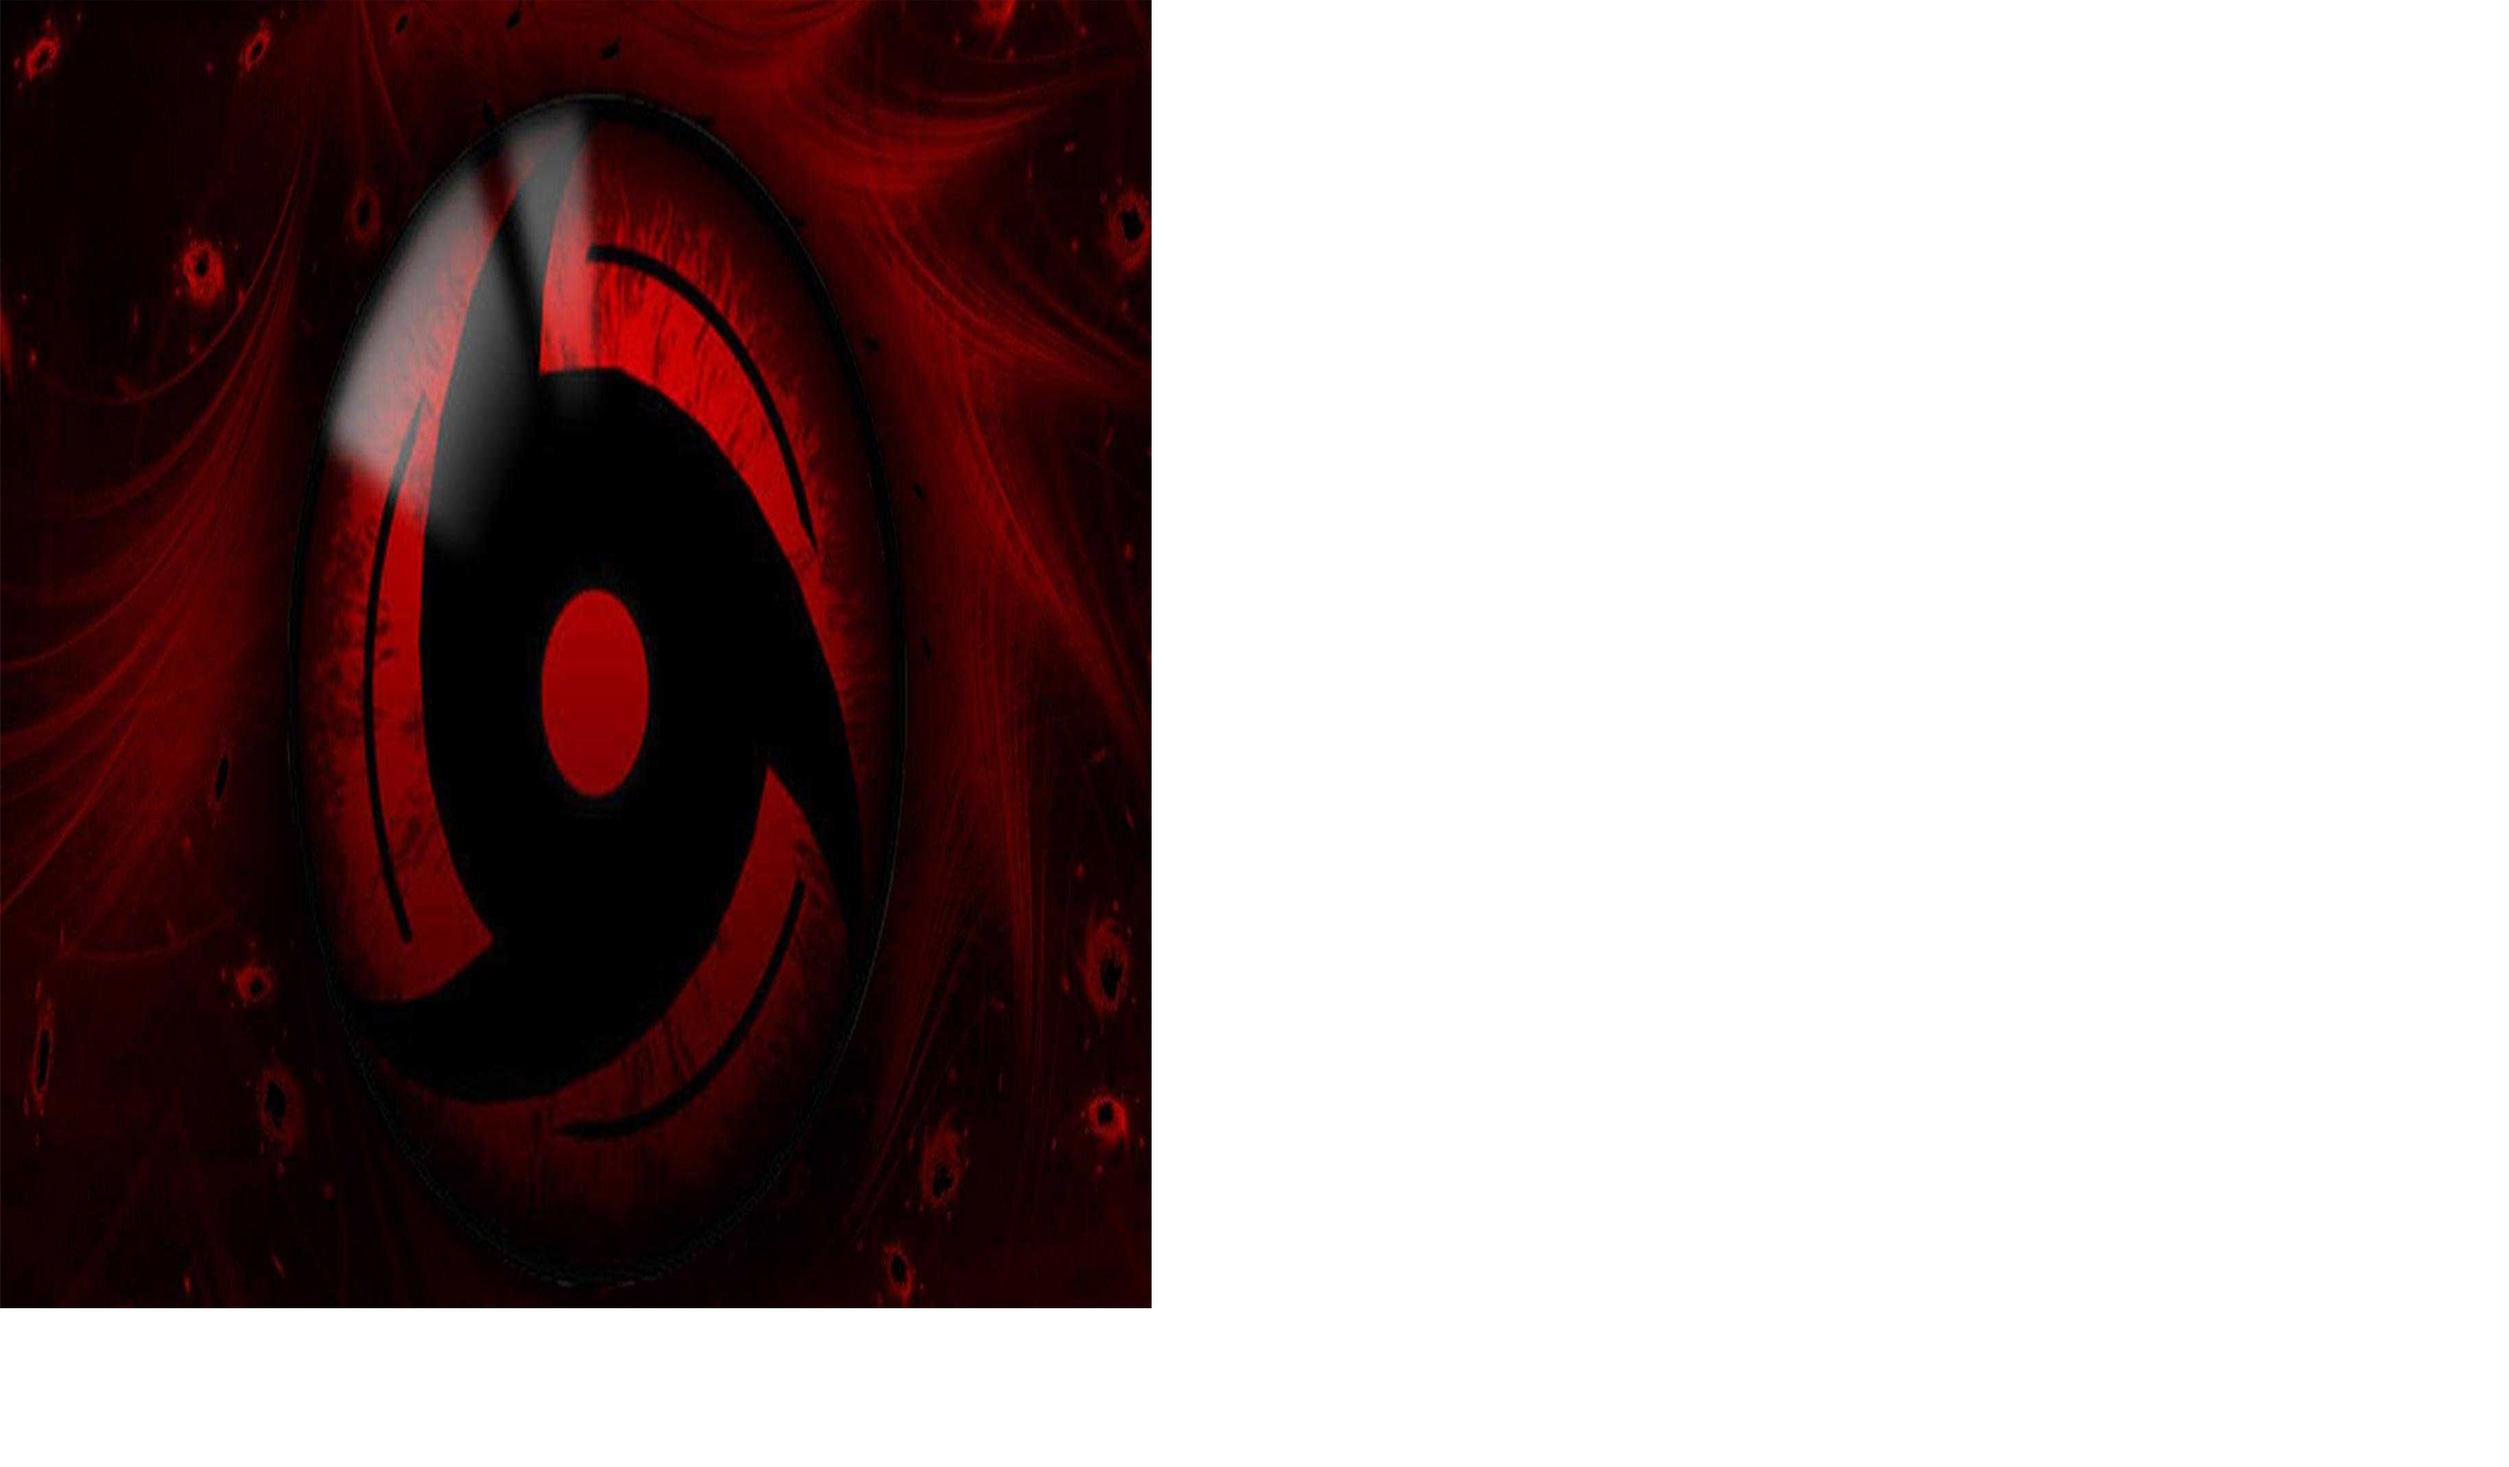
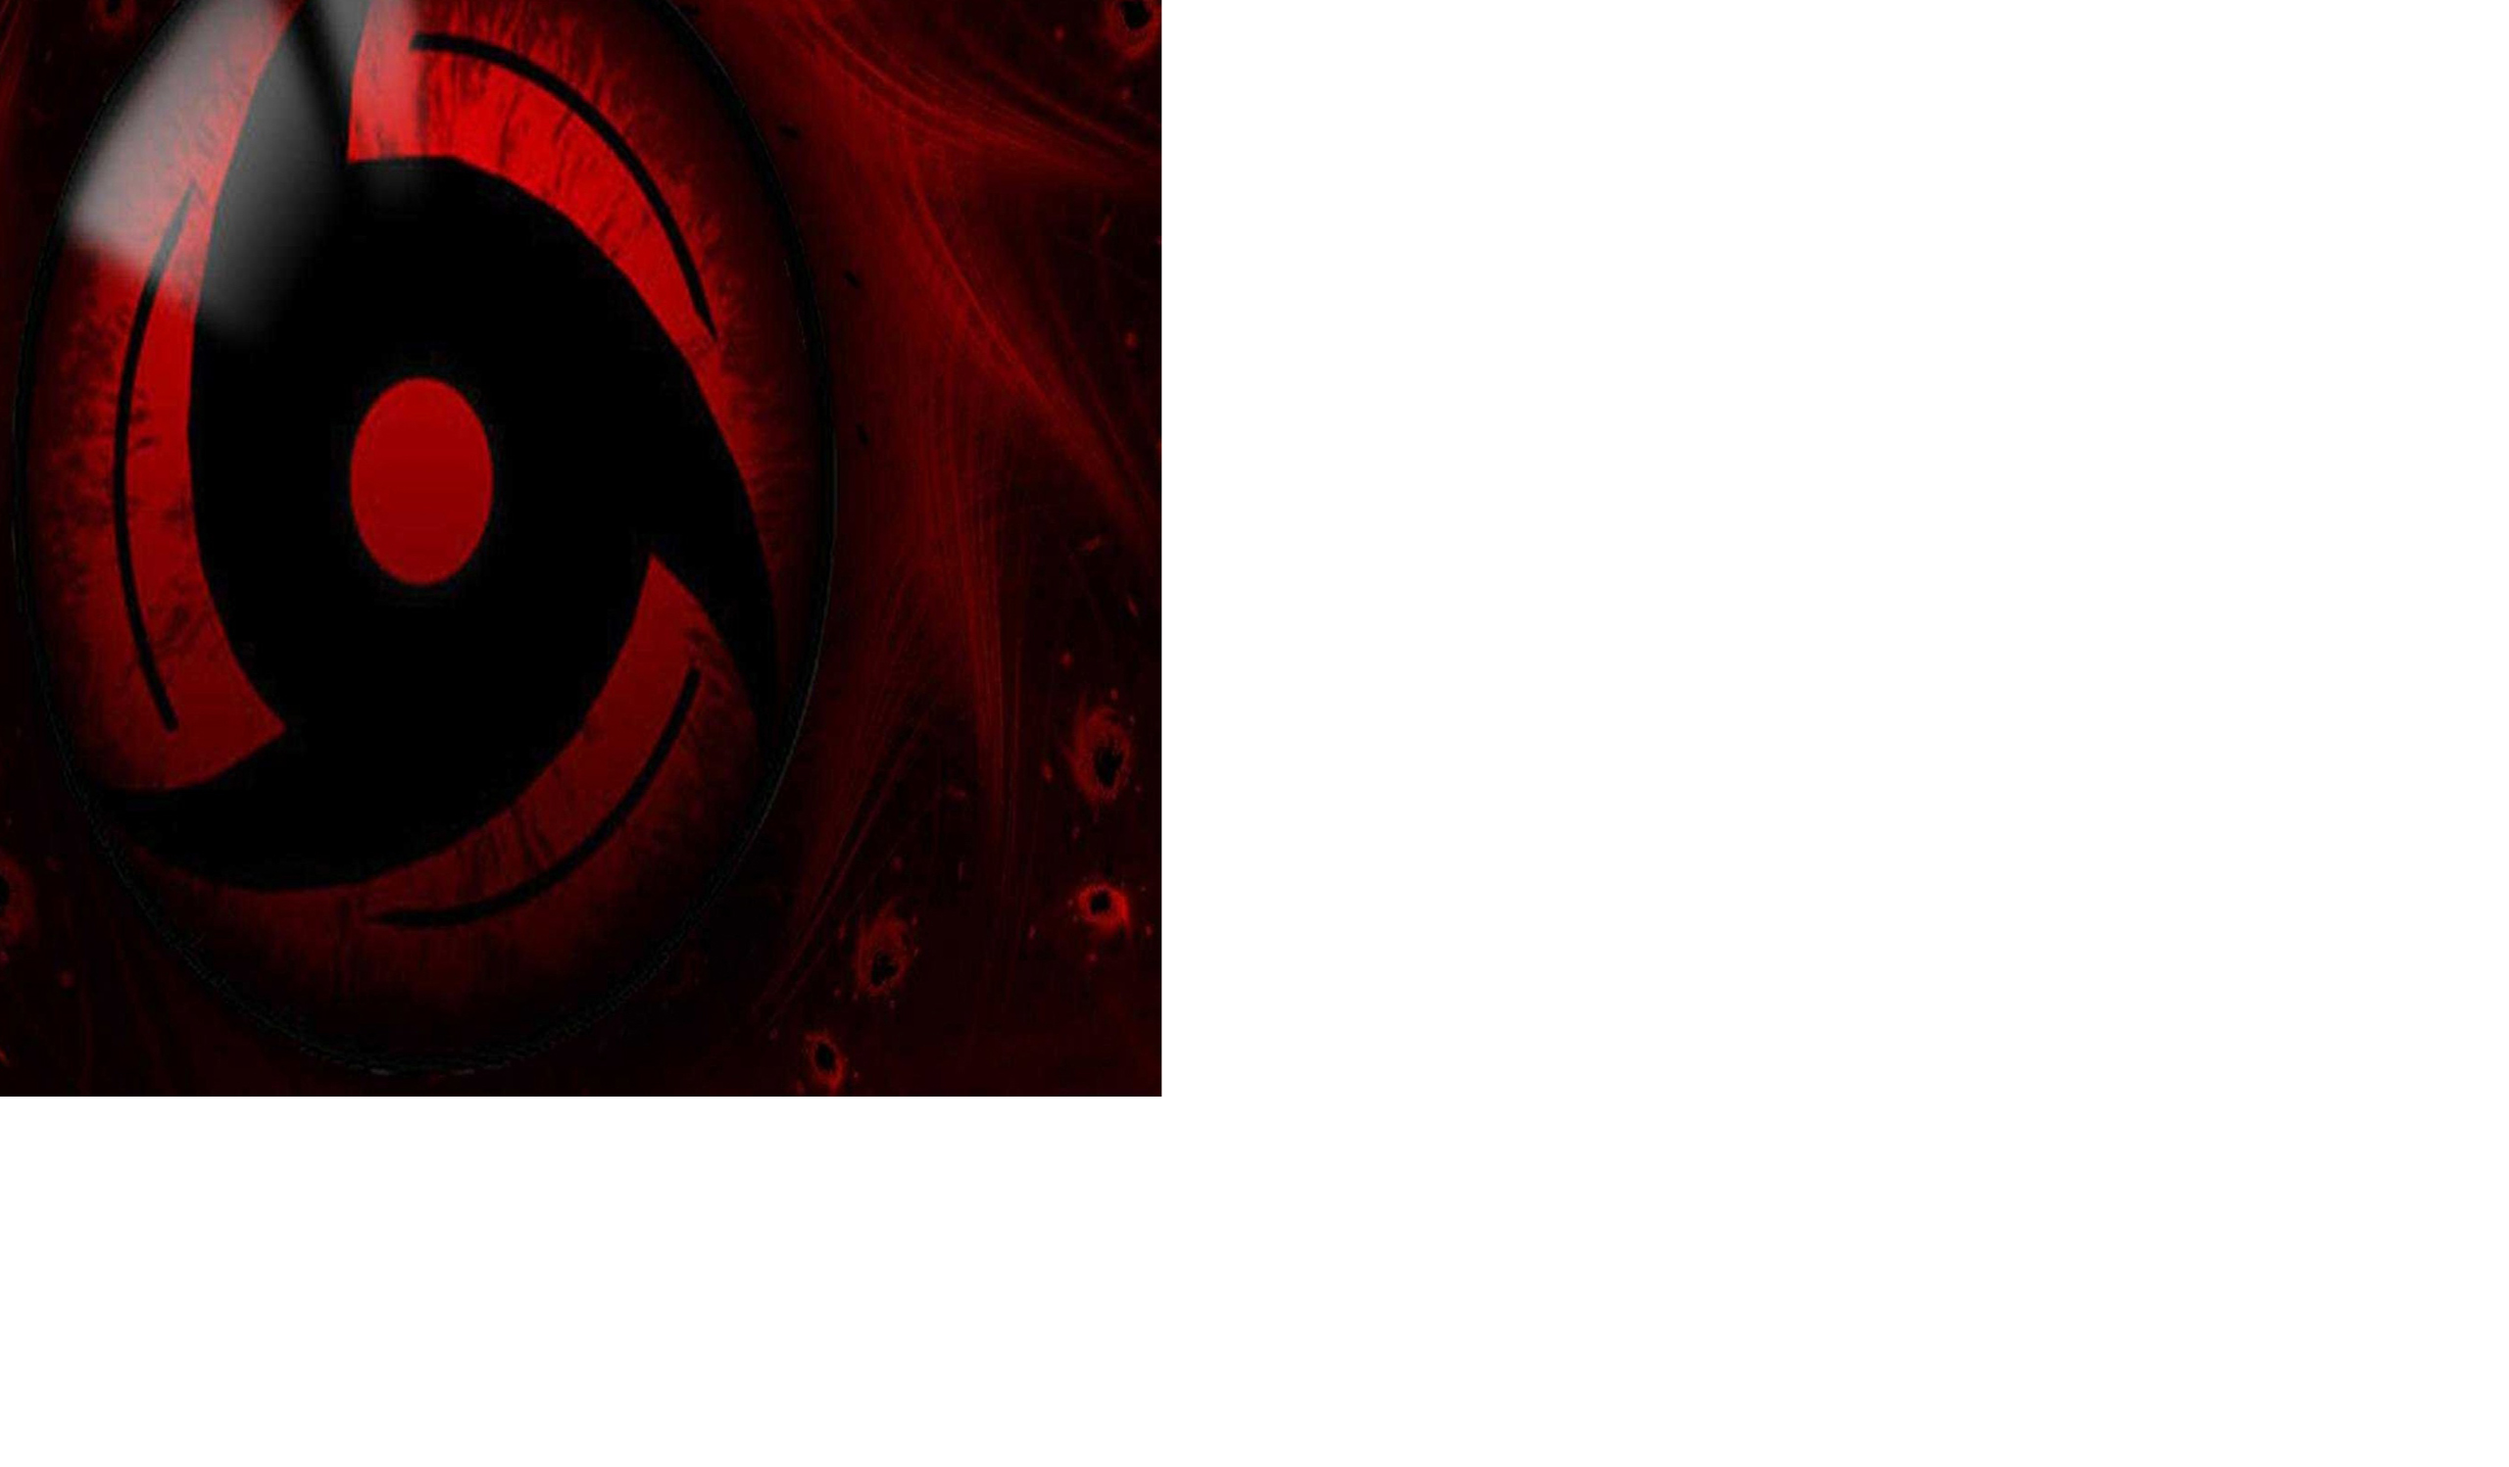
kkkkkkkk

Changed region(s): [[0.0, 0.0, 0.4688, 0.8911]]

diff --git a/menuTemplateButtonClass.py b/menuTemplateButtonClass.py
@@ -4,7 +4,7 @@
 import pygame, sys
 pygame.init()
 BackGround1 = pygame.image.load('//ad.ocdsb.ca/studenthome/2/S331391482/ICSsummative/final-project-the-legendary-sannin/710573-most-popular-tobi-wallpaper-1920x1080-for-hd-1080p.jpg')
-BackGround2 = pygame.image.load('//ad.ocdsb.ca/studenthome/2/S331391482/ICSsummative/final-project-the-legendary-sannin/maxresdefault.jpg')
+BackGround2 = pygame.image.load('//ad.ocdsb.ca/studenthome/2/S331391482/ICSsummative/final-project-the-legendary-sannin/maxresdefault (2).jpg')
 BackGround3 = pygame.image.load('//ad.ocdsb.ca/studenthome/2/S331391482/ICSsummative/final-project-the-legendary-sannin/893996-beautiful-cool-naruto-backgrounds-1920x1080.jpg')
 BackGround4 = pygame.image.load('//ad.ocdsb.ca/studenthome/2/S331391482/ICSsummative/final-project-the-legendary-sannin/Naruto-Shipuden-Wallpaper-For-Desktop-93767272.jpg')
 BackGround5 = pygame.image.load('//ad.ocdsb.ca/studenthome/2/S331391482/ICSsummative/final-project-the-legendary-sannin/grass_template_straightpath.jpg')
